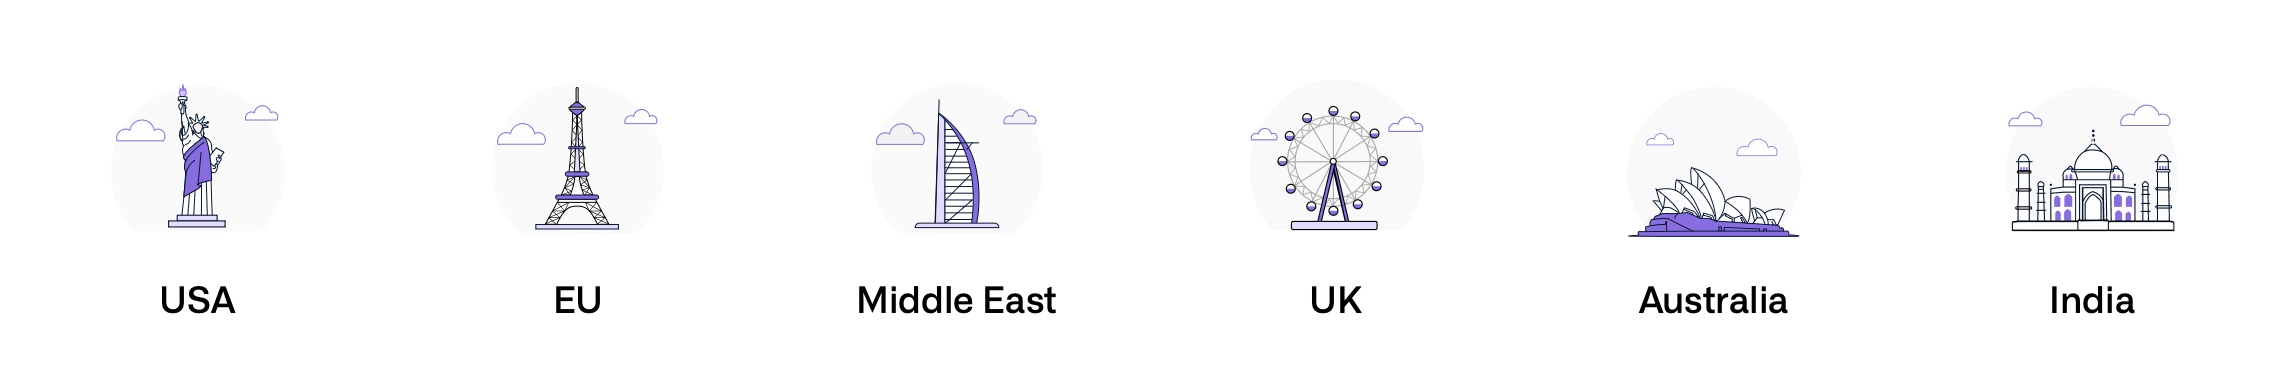
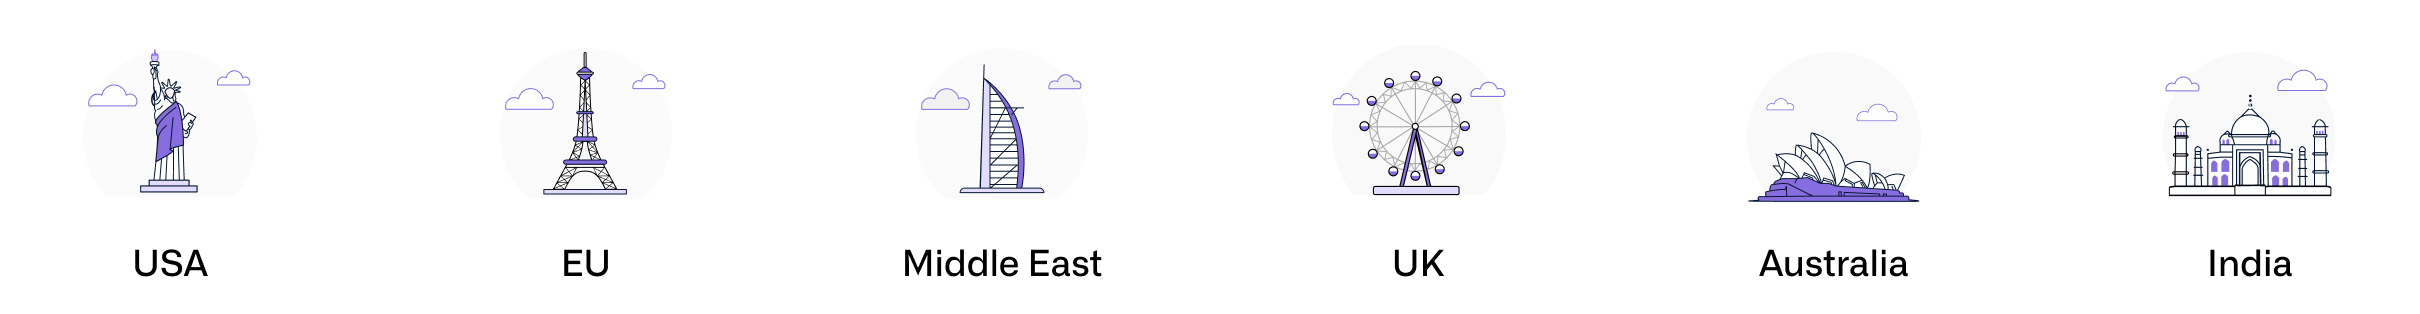
UI adjustment.

diff --git a/blin/src/app/components/common/courses/courses.component.scss b/blin/src/app/components/common/courses/courses.component.scss
@@ -3,7 +3,7 @@
     position: relative;
     border-radius: 5px;
     background-color: var(--whiteColor);
-    box-shadow: 0px 8px 16px 0px rgba(146, 184, 255, 0.2);
+    box-shadow: 0px 4px 16px 0px rgba(0, 0, 0, 0.12);
 
     .courses-image {
         border-radius: 5px 5px 0 0;
@@ -885,7 +885,7 @@
 }
 
 .wrap{
-    background: #F9F9F9;
+    // background: #F9F9F9;
     display: block;
     padding: 61px 0 81px;
 }
@@ -894,5 +894,34 @@
     margin-bottom: 75px;
     span{
         margin-bottom: 15px;
+    }
+}
+
+.countryTraning {
+    .head {
+        display: flex;
+        justify-content: space-between;
+        align-items: center;
+        padding-bottom: 30px;
+        h2, span {
+            text-align: left;
+        }
+
+        span {
+            margin-bottom: 0;
+        }
+    }
+
+    .scheduleCall {
+        background: var(--themeColor);
+        border-radius: 6px;
+        font-size: 21px;
+        font-weight: 500;
+        color: var(--whiteColor);
+        padding: 16px 43px 13px;
+
+        &:hover {
+            background: #6e54c7;
+        }
     }
 }

diff --git a/blin/src/app/components/common/courses/courses.component.html b/blin/src/app/components/common/courses/courses.component.html
@@ -7,13 +7,16 @@
         <app-different-country>
             <div class="countryTraning">
             <div class="head">
-                <h2>
-                    Learn to plan for 5+ different markets
-                </h2>
-                <span>Germany, UK, Australia, United States, India, Middle-East.</span>
+                <div>
+                    <h2>
+                        Learn to plan for 5+ different markets
+                    </h2>
+                    <span>Germany, UK, Australia, United States, India, Middle-East.</span>
+                </div>
+                <a routerLink="/contact" class="scheduleCall">Schedule a Call</a>
             </div>
             <div class="country_traning">
-                <img src="assets/images/ui/country-img.png" width="1140" height="183">
+                <img src="assets/images/ui/country-img.png" width="1210" height="157">
             </div>
             </div>
             

diff --git a/blin/src/app/components/common/happier-customers/happier-customers.component.html b/blin/src/app/components/common/happier-customers/happier-customers.component.html
@@ -1,10 +1,9 @@
-<div class="happier-customers-area pt-75 pb-75">
+<div class="happier-customers-area pt-75">
     <div class="container">
         <div class="row happier-customers-inner">
             <div class="hd-section-title text-center ms-auto me-auto" data-aos="fade-up" data-aos-duration="500">
                 <h2 class="mb-0 font-poppins">
-                    <h2><i class="jeffStyle">Automate</i> working with 
-                        different stakeholders</h2>
+                    <h2><i class="jeffStyle">Automate</i> working with <br>different stakeholders</h2>
                 </h2>
                 <p class="ms-auto me-auto">
 

diff --git a/blin/src/app/components/common/about/hd-about/hd-about.component.html b/blin/src/app/components/common/about/hd-about/hd-about.component.html
@@ -1,4 +1,4 @@
-<div class="about-area ptb-100">
+<div class="about-area pb-75">
     <div class="container">
         <div class="row align-items-center">
             <div class="col-lg-6 col-md-12">

diff --git a/blin/src/app/components/common/happier-customers/happier-customers.component.scss b/blin/src/app/components/common/happier-customers/happier-customers.component.scss
@@ -52,7 +52,7 @@
 }
 .happier-customers-image {
     img {
-        border-radius: 8px;
+        display: block;
     }
     // max-width: 1070px;
 
